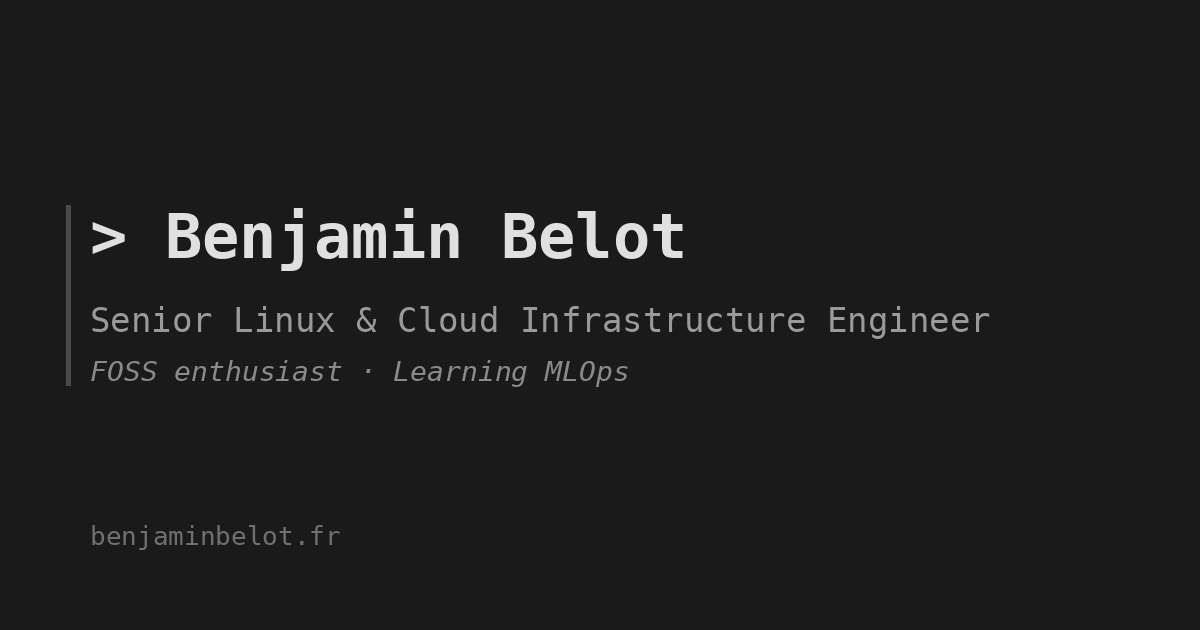
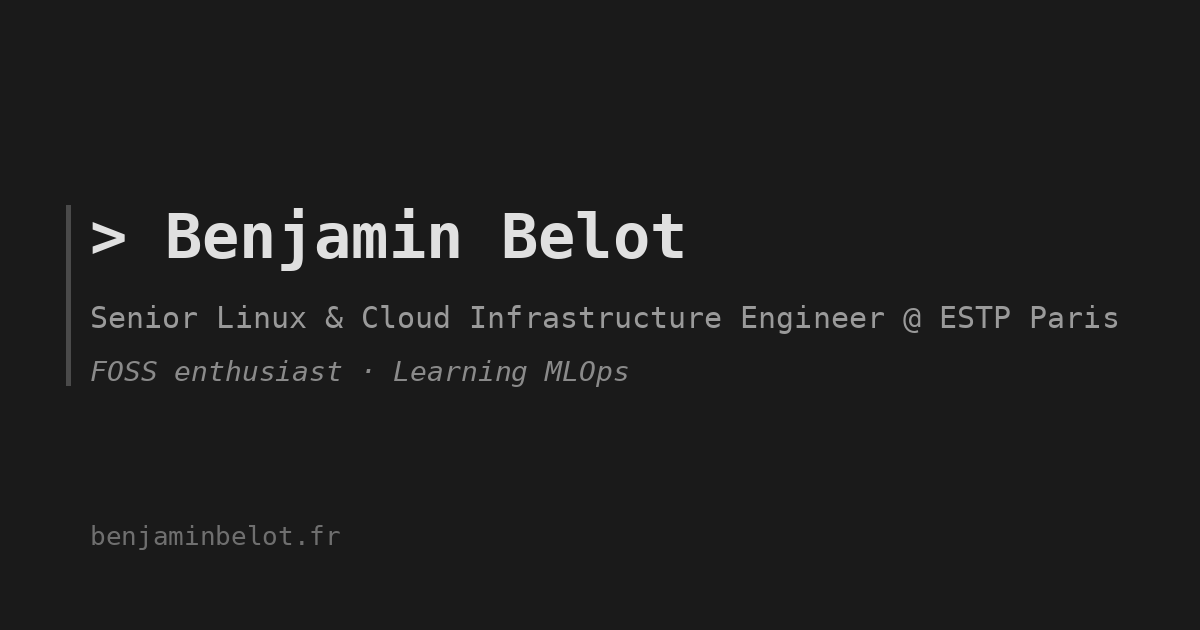
site: employeur remis dans le sous-titre (+ carte OG)

Changed region(s): [[0.0617, 0.4825, 0.925, 0.5429]]

diff --git a/index.html b/index.html
@@ -109,7 +109,7 @@
 <body>
     <main>
         <h1>Benjamin Belot</h1>
-        <div class="subtitle">Senior Linux &amp; Cloud Infrastructure Engineer</div>
+        <div class="subtitle">Senior Linux &amp; Cloud Infrastructure Engineer @ ESTP Paris</div>
         <div class="tagline">FOSS enthusiast · Learning MLOps</div>
         <div class="about">
             <p>Ten years in systems, networking, cloud and security — Linux first.</p>
